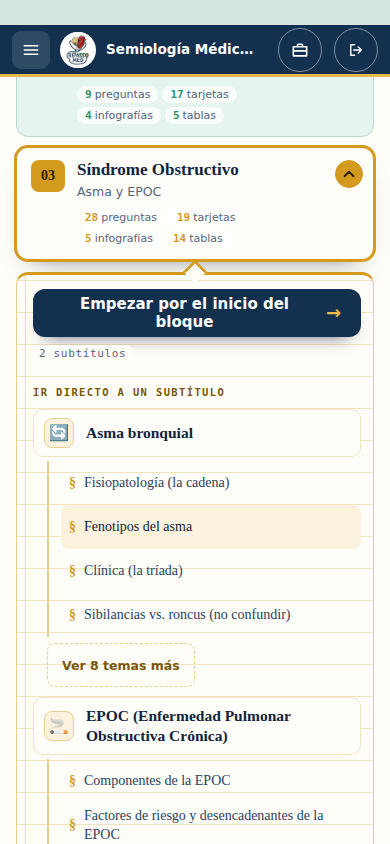
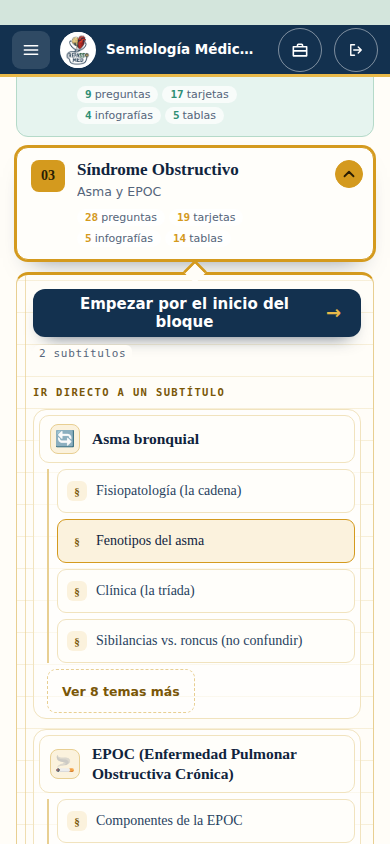
fix(semiologia-ii): H4 como minicards na ficha do H3, aria-controls válido, cabeçalhos do módulo (#462)
- painel: cada H4 vira minicard discreto (≥ 44 px, recuado) dentro da ficha do seu H3;
  mantém só os 4 primeiros + «Ver N temas más»; pautas do papel mais sutis (@supports color-mix)
- aria-controls do card só existe enquanto o painel está no DOM (nunca aponta para id ausente)
- comentários de rm-materia-indice.js/css: módulo já ligado ao piloto (não é mais «protótipo isolado»)
- QA: seção 10 (H4 minicards + aria-controls) → 167/167; qa-piloto 51/51; suítes do piloto verdes
- docs: comparação das 2 falhas «post-it» da caneta com a main (idênticas; não desta PR),
  README com passo de teste visual; capturas atualizadas

Sem alteração de IDs, conteúdo, âncoras, flags ou motor da caneta. Sem merge.

Claude-Session: https://claude.ai/code/session_01PtAML93YoLN7vnLM4Dj4QM

Changed region(s): [[0.0615, 0.4929, 0.9538, 1.0], [0.0615, 0.5545, 0.0923, 0.6777], [0.8923, 0.4621, 0.9231, 0.4929]]

diff --git a/Repasso-Med-Site--main/Atual - Copia/assets/rm-materia-indice.css b/Repasso-Med-Site--main/Atual - Copia/assets/rm-materia-indice.css
@@ -1,5 +1,5 @@
 /* =====================================================================
-   REPASSO MED · rm-materia-indice.css — índice CENTRAL expansível (issue #460) · PROTÓTIPO ISOLADO (nada o carrega ainda)
+   REPASSO MED · rm-materia-indice.css — índice CENTRAL expansível (issue #460) · carregado pelo rm-pilot.js só com layout+visual do servidor (PR #462)
    Só vale com o tema do piloto ligado (html.rm-sis). Usa os tokens e as variáveis de capítulo do rm-materia-sistema.css (--cap*, --rm-*).
    Linguagem: caderno médico premium — o card acionado «abre» uma página do caderno ligada a ele por aba/cor/borda; minicards leves
    (não repetem o peso dos cards de bloco); expansão curta (220 ms), sem giro/bounce/parallax; prefers-reduced-motion = instantâneo.
@@ -48,6 +48,9 @@ html.rm-sis .rm-ix-box {
   background-size: 100% 32px; background-position: 0 6px;
   box-shadow: 0 16px 28px -22px rgba(16, 36, 61, .55);
 }
+@supports (color: color-mix(in srgb, red 50%, blue)) {
+  html.rm-sis .rm-ix-box { background-image: linear-gradient(to bottom, transparent 31px, color-mix(in srgb, var(--cap-line) 55%, transparent) 31px); }   /* pautas ainda mais sutis onde color-mix existe */
+}
 html.rm-sis .rm-ix-box::before { content: ""; position: absolute; top: 0; bottom: 0; left: clamp(8px, 1.6vw, 15px); width: 1px; background: var(--cap-edge); opacity: .7; pointer-events: none; }
 
 html.rm-sis .rm-ix-head { display: flex; align-items: center; flex-wrap: wrap; gap: 8px 14px; margin: 0 0 16px; }
@@ -80,33 +83,39 @@ html.rm-sis .rm-ix-mk {
 html.rm-sis .rm-ix-mk.is-ico { font-size: 16px; line-height: 1; }
 html.rm-sis .rm-ix-tt { min-width: 0; overflow-wrap: anywhere; }
 
-/* H4 (nível 2): linhas discretas sob o H3 a que pertencem */
-html.rm-sis .rm-ix-kids { list-style: none; margin: 0 0 0 20px; padding: 0 0 0 12px; border-left: 2px solid var(--cap-edge); display: flex; flex-direction: column; gap: 0; }
+/* H3 com H4: o grupo vira uma «ficha» discreta (fundo levíssimo + borda fina); o H3 é o minicard de cima e cada H4 é um minicard menor, recuado, dentro dela */
+html.rm-sis .rm-ix-grp.has-kids { gap: 6px; padding: 6px; border: 1px solid var(--cap-line); border-radius: 13px; background: rgba(255, 255, 255, .55); }
+html.rm-sis .rm-ix-kids { list-style: none; margin: 0 0 0 14px; padding: 0 0 0 10px; border-left: 2px solid var(--cap-edge); display: flex; flex-direction: column; gap: 6px; }
 html.rm-sis .rm-ix-kids > li { margin: 0; padding: 0; }
 html.rm-sis .rm-ix-kids > li[hidden] { display: none; }
 html.rm-sis button.rm-ix-kid {
-  appearance: none; -webkit-appearance: none; margin: 0; width: 100%; box-sizing: border-box; display: flex; align-items: center; gap: 8px; min-height: 44px; padding: 4px 8px; text-align: left; cursor: pointer;
-  background: transparent; border: 0; border-radius: 8px; font: 500 14px/1.3 var(--rm-f-body); color: var(--rm-tx3);
+  appearance: none; -webkit-appearance: none; margin: 0; width: 100%; box-sizing: border-box; display: flex; align-items: center; gap: 9px; min-height: 44px; padding: 6px 12px 6px 9px; text-align: left; cursor: pointer;
+  background: var(--rm-white); border: 1px solid var(--cap-line); border-radius: 9px; font: 500 14px/1.3 var(--rm-f-body); color: var(--rm-tx3); transition: border-color .15s, background .15s, color .15s;
 }
-html.rm-sis button.rm-ix-kid::before { content: "§"; flex: 0 0 auto; color: var(--cap); font-weight: 800; }
-html.rm-sis button.rm-ix-kid:hover { background: var(--cap-tint); color: var(--rm-title); }
+html.rm-sis button.rm-ix-kid::before {
+  content: "§"; flex: 0 0 20px; width: 20px; height: 20px; display: grid; place-items: center; border-radius: 6px; background: var(--cap-tint); color: var(--cap-strong, var(--rm-navy));
+  font: 700 11px var(--rm-f-title);
+}
+html.rm-sis button.rm-ix-kid:hover { border-color: var(--cap); background: var(--cap-tint); color: var(--rm-title); }
+html.rm-sis button.rm-ix-kid:active { transform: translateY(1px); }
 html.rm-sis .rm-ix-kt { min-width: 0; overflow-wrap: anywhere; }
 html.rm-sis button.rm-ix-more {
-  appearance: none; -webkit-appearance: none; margin: 2px 0 0 20px; align-self: flex-start; min-height: 44px; padding: 0 14px; cursor: pointer; background: transparent;
-  border: 1px dashed var(--cap-edge); border-radius: 8px; font: 650 12.5px var(--rm-f-ui); color: var(--cap-strong, var(--rm-navy));
+  appearance: none; -webkit-appearance: none; margin: 0 0 0 14px; align-self: flex-start; min-height: 44px; padding: 0 14px; cursor: pointer; background: transparent;
+  border: 1px dashed var(--cap-edge); border-radius: 9px; font: 650 12.5px var(--rm-f-ui); color: var(--cap-strong, var(--rm-navy));
 }
 html.rm-sis button.rm-ix-more:hover { background: var(--cap-tint); }
 
 @media (max-width: 480px) {
   html.rm-sis .rm-ix-box { padding: 14px 12px 16px 16px; border-radius: 12px; }
   html.rm-sis .rm-ix-start { width: 100%; justify-content: center; }
-  html.rm-sis .rm-ix-kids { margin-left: 14px; }
-  html.rm-sis button.rm-ix-more { margin-left: 14px; }
+  html.rm-sis .rm-ix-kids { margin-left: 8px; padding-left: 8px; }
+  html.rm-sis button.rm-ix-more { margin-left: 8px; }
+  html.rm-sis .rm-ix-grp.has-kids { padding: 5px; }
 }
 
 /* movimento reduzido: abertura/fechamento instantâneos, sem deslocamento */
 @media (prefers-reduced-motion: reduce) {
-  html.rm-sis .rm-ix-panel, html.rm-sis .rm-ix-chev, html.rm-sis button.rm-ix-card, html.rm-sis .rm-ix-start, html.rm-sis button.rm-ix-sub { transition: none !important; }
-  html.rm-sis .rm-ix-start:hover, html.rm-sis button.rm-ix-sub:active { transform: none; }
+  html.rm-sis .rm-ix-panel, html.rm-sis .rm-ix-chev, html.rm-sis button.rm-ix-card, html.rm-sis .rm-ix-start, html.rm-sis button.rm-ix-sub, html.rm-sis button.rm-ix-kid { transition: none !important; }
+  html.rm-sis .rm-ix-start:hover, html.rm-sis button.rm-ix-sub:active, html.rm-sis button.rm-ix-kid:active { transform: none; }
 }
 html.rm-sis .rm-ix-panel.is-sem-anim { transition: none !important; }

diff --git a/Repasso-Med-Site--main/Atual - Copia/assets/rm-materia-indice.js b/Repasso-Med-Site--main/Atual - Copia/assets/rm-materia-indice.js
@@ -1,7 +1,8 @@
 /* =====================================================================
    REPASSO MED · rm-materia-indice.js — índice CENTRAL expansível por bloco e subtítulo (issue #460)
-   PROTÓTIPO ISOLADO: nenhum arquivo do site carrega este módulo. A integração (um css()+js() e um attach depois de RMNav.attach em rm-pilot.js)
-   está em docs/indice-expansivel-460/PATCH-INTEGRACAO-rm-pilot.diff e só entra depois da PR da caneta (#456).
+   LIGADO AO PILOTO (PR #462): rm-pilot.js carrega este módulo depois da navegação por bloco (rm-materia-nav.js) e chama attach() só quando o servidor
+   liberou layout + visual para Semiología II (mesmo portão do tema). Qualquer falha (módulo ausente, attach que lança) ⇒ detach() e os cards voltam a ser
+   os <a> de antes, que abrem o bloco direto. Sem esse attach, o arquivo não faz nada: window.RMIndice só define funções. Rollback: docs/indice-expansivel-460/README.md.
 
    O que faz (só no índice de abertura da matéria, atrás do mesmo portão do piloto: exige RMSistema + RMNav ativos):
      · o card central de um BLOCO deixa de abrir o bloco na hora: ele EXPANDE ali mesmo, num painel ligado ao card (aba/cor/borda);
@@ -15,7 +16,7 @@
        cabeçalhos de pergunta/flashcard, cabeçalhos repetidos (SUB_FORA, a mesma regra do app-core), e tudo que está dentro de contêineres
        (post-it, cartões, detalhes, quiz, tabelas…). H4 entra como filho do H3 anterior (hierarquia).
      · Só usa APIs públicas já existentes: RMSistema.secciones(), RMNav.ativo()/go()/irParaAlvo(). Não toca RMModes/RMLayout/áudio/caneta.
-     · Acessibilidade: o card vira <button> real com aria-expanded/aria-controls; Enter/Espaço; Esc fecha e devolve o foco; alvos ≥ 44 px;
+     · Acessibilidade: o card vira <button> real com aria-expanded e, enquanto o painel existe no DOM, aria-controls (nunca aponta para um id ausente); Enter/Espaço; Esc fecha e devolve o foco; alvos ≥ 44 px;
        prefers-reduced-motion = abertura/fechamento instantâneos.
      · Reversível: detach() devolve os <a> originais e remove tudo o que criou.
    ===================================================================== */
@@ -106,7 +107,7 @@
     var lab = el('p', 'rm-ix-lab'); lab.textContent = T.ir; dentro.appendChild(lab);
     var ol = el('ol', 'rm-ix-list');
     c.subs.forEach(function (g, i) {
-      var li = el('li', 'rm-ix-grp');
+      var li = el('li', g.kids.length ? 'rm-ix-grp has-kids' : 'rm-ix-grp');
       var b = el('button', 'rm-ix-sub', { type: 'button' });
       var mk = el('span', 'rm-ix-mk', { 'aria-hidden': 'true' }); mk.textContent = g.icon || g.num || String(i + 1); if (g.icon) mk.className += ' is-ico'; b.appendChild(mk);
       var tt = el('span', 'rm-ix-tt'); tt.textContent = g.txt; b.appendChild(tt);
@@ -189,6 +190,7 @@
     N.aberto = c;
     c.btn.setAttribute('aria-expanded', 'true'); c.btn.setAttribute('data-rm-open', '');
     colocar(c);
+    c.btn.setAttribute('aria-controls', c.painelId);                 // o painel já está no DOM
     var P = c.painel, reduz = movimentoReduzido();
     if (reduz) { P.classList.add('is-open'); P.classList.add('is-sem-anim'); }
     else { void P.offsetHeight; requestAnimationFrame(function () { if (N && N.aberto === c) P.classList.add('is-open'); }); }
@@ -203,7 +205,7 @@
     var reduz = movimentoReduzido();
     if (o.ancora) ancorar(o.ancora, reduz ? 40 : DUR + 60);
     P.classList.remove('is-open');
-    var tirar = function () { if (P.parentNode && !(N && N.aberto === c)) { var g = P.parentNode; g.removeChild(P); soltarGrade(g); } };
+    var tirar = function () { if (P.parentNode && !(N && N.aberto === c)) { c.btn.removeAttribute('aria-controls'); var g = P.parentNode; g.removeChild(P); soltarGrade(g); } };
     if (reduz) tirar(); else setTimeout(tirar, DUR + 40);
     if (o.foco) { try { c.btn.focus({ preventScroll: true }); } catch (e) { c.btn.focus(); } }
   }
@@ -248,7 +250,7 @@
       var subs = subtitulosDe(s.el); if (!subs.length) return;                             // bloco sem subtítulos reais: card segue abrindo direto
       var btn = ui('button', 'rm-sis-card rm-ix-card', { type: 'button', 'aria-expanded': 'false', 'data-rm-go': s.id });
       var cap = orig.getAttribute('data-rm-cap') || ''; if (cap) btn.setAttribute('data-rm-cap', cap);
-      var painelId = 'rm-ix-p-' + (++SEQ); btn.setAttribute('aria-controls', painelId);
+      var painelId = 'rm-ix-p-' + (++SEQ);                    // aria-controls só existe enquanto o painel está no DOM (abrir/fechar)
       while (orig.firstChild) btn.appendChild(orig.firstChild);
       var ch = el('span', 'rm-ix-chev', { 'aria-hidden': 'true' }); ch.appendChild(svgCaret()); btn.appendChild(ch);
       var b = btn.querySelector('.rm-sis-card-t b'), n = btn.querySelector('.rm-sis-card-n');

diff --git a/docs/indice-expansivel-460/README.md b/docs/indice-expansivel-460/README.md
@@ -9,7 +9,7 @@
 - Dentro do painel:
   - o comando separado e destacado **«Empezar por el inicio del bloque»** (abre o bloco no começo; texto em castelhano porque é voltado ao aluno — a issue o chama «Começar pelo início do bloco»);
   - **minicards com os subtítulos reais** do bloco, na ordem do conteúdo (marcador numerado ou o ícone clínico que o próprio título já tem; cor da unidade; alvo ≥ 44 px);
-  - os subtítulos de nível 4 aparecem como linhas discretas sob o seu título (até 4; «Ver N temas más» para o resto).
+  - quando um subtítulo (H3) tem subtópicos (H4), o grupo vira uma «ficha» discreta: o H3 é o minicard de cima e **cada H4 é um minicard menor, recuado, dentro da ficha** (marcador «§», alvo ≥ 44 px, texto menor/mais leve que o do H3). Só os **4 primeiros** H4 de cada grupo aparecem; o resto fica atrás de «Ver N temas más» (e «Ver menos»), para a capa não ficar enorme.
 - Clicar num subtítulo abre **só aquele bloco** e posiciona a leitura no título (reuso de `RMNav.irParaAlvo`).
 - **Um painel por vez.** Esc fecha e devolve o foco ao card. Os outros cards descem com transição de ~220 ms (altura/opacidade, sem giro/salto); `prefers-reduced-motion` = instantâneo. O card clicado não sai da tela; sem salto de rolagem.
 - **Guía de estudio, tablas, banco e flashcards** (4 cards) seguem como links diretos: nenhum subtítulo inventado.
@@ -33,22 +33,31 @@
 
 A reserva #460 foi registrada na #67 (comentário 6045457401). Os arquivos da caneta (#456) eram os mesmos que a integração precisa; por isso o trabalho começou **isolado** (arquivos novos + diff). A #461 (caneta) foi **mesclada na `main`** durante esta tarefa e liberou a reserva (comentário do Claude 2 na #67; ela tocou `rm-materia-sistema.js/css`, `rm-audio.css` e **não** `rm-pilot.js`). A `main` foi incorporada a esta branch, o diff foi aplicado a `rm-pilot.js` e **toda a bateria foi reexecutada** contra a `main` com a caneta nova.
 
-## Evidências
+## Evidências (HEAD desta entrega — ver o fim da PR para o hash)
 
 | Bateria | Resultado |
 |---|---|
-| `tools/qa/indice-expansivel-460/qa.cjs` (derivação, mouse, teclado, toque, 320/390/768/1024/1440, zoom 200%, movimento reduzido, lista longa, conteúdo intacto, lateral/modos/links diretos/Back-Forward, caneta sintética) | **142/142** |
+| `tools/qa/indice-expansivel-460/qa.cjs` (derivação, mouse, teclado, toque, 320/390/768/1024/1440, zoom 200%, movimento reduzido, lista longa, conteúdo intacto, lateral/modos/links diretos/Back-Forward, caneta sintética, **10 · H4 como minicards + `aria-controls`**) | **167/167** |
 | `…/qa-piloto.cjs` (pilot **real**: flags on/off, outra matéria, 500/404/attach que lança, rollback, player de áudio tocando em 390 e 1440, caneta V2 com tinta semeada) | **51/51** |
-| Suítes existentes do piloto (`browser-qa/layout`): `layout` 535/535 · `player-sistema` 275/275 · `player-toolbox` 495/495 · `race` 140/140 · `ink-jump` 54/54 · `cover` 198/198 · `sistema` 124/124 · `pilot-flags` 10/10 · `nav-sistema` 216/216 (após adaptar o clique do card) | verdes |
-| `caneta-novo-layout.test.cjs` | **89/91**: 2 falhas «layout · postit · rápido/longo» — **idênticas com o `rm-pilot.js` original da `main`** (testado com o pilot revertido): não vêm desta PR; o relato é do Claude 2 (#456) |
+| Suítes existentes do piloto (`browser-qa/layout`) rerodadas: `layout` 535 · `player-sistema` 275/275 · `player-toolbox` 495/495 · `race` 140/140 · `ink-jump` 54/54 · `cover` 198/198 · `sistema` 124/124 · `pilot-flags` 10/10 · `nav-sistema` 216 | **todas verdes** |
+| `caneta-novo-layout.test.cjs` | **89/91 — igual na `main`** (mesmas 2 falhas «layout · postit», desvio 1,68 px > 1,6 px, 0 pontos perdidos). Comparação lado a lado em [`caneta-postit-comparacao.md`](caneta-postit-comparacao.md). **Não atribuída a esta PR; motor da caneta não alterado.** |
+| Repasso Guard (local e CI) | ver o comentário/execução na PR |
 
-Capturas (antes/depois): `capturas/antes-*` e `capturas/depois-*` (1440 e 390 recolhido/expandido, outra fileira, meio da animação, movimento reduzido, subtítulo escolhido, 320/768/1024, toque, zoom 200%, lista longa).
+Capturas: `capturas/antes-*` e `capturas/depois-*` (1440 e 390 recolhido/expandido, outra fileira, **H4 minicards em 1440 e 390**, meio da animação, movimento reduzido, subtítulo escolhido, 320/768/1024, toque, zoom 200%, lista longa). `qa-resultados.json` e `qa-piloto-resultados.json` têm cada verificação.
+
+## Passo de teste visual para José (≈ 3 min, no piloto Semiología II com o visual novo)
+
+1. Abra a capa («Índice general»). Toque no card **03 · Síndrome Obstructivo**: ele deve **abrir ali mesmo** (não entrar no bloco).
+2. Veja a «ficha» de **Asma bronquial** e de **EPOC**: cada tema com subtópicos mostra o título em cima e **4 minicards menores** abaixo; «Ver 8 temas más» revela o resto. Os minicards parecem discretos e legíveis? As pautas do papel incomodam?
+3. Toque num subtópico (p.ex. «Clínica (la tríada)»): deve abrir **só o bloco 03** já no título. Volte pelo índice: o card segue expandido.
+4. Toque em outro card: o anterior fecha, só um fica aberto. Repita no celular (390 px) e, se puder, com «reduzir movimento» ligado.
+5. Diga o que muda: tamanho do texto, número de H4 visíveis (hoje 4), cor, ordem, rótulos.
 
 ## Riscos e limitações (leia antes de aprovar)
 
-1. **Decisão visual é de José.** Pontos a olhar: o painel em 2 colunas intercalando linhas de subtítulos de nível 4; o rótulo «Ver N temas más»; a quantidade de texto em blocos com 7 temas.
+1. **Decisão visual é de José** (ver «Passo de teste visual» abaixo). Pontos a olhar: a ficha H3+H4 em 2 colunas; o rótulo «Ver N temas más»; a intensidade das pautas do papel (sutis; só onde `color-mix` existe); a quantidade de texto em blocos com 7 temas.
 2. **Idioma do comando**: em castelhano («Empezar por el inicio del bloque»), por ser texto de aluno; a issue o escreveu em português.
-3. **Caneta**: testada com **traço sintético** (pointer events no Chromium) e tinta semeada; **não** valida o atraso/perda de traço reais nem o teste físico. A expansão não grava nada (0 escritas).
+3. **Caneta**: as 2 falhas «post-it» do teste da #456 são da `main` (comparação em `caneta-postit-comparacao.md`). Aqui, testada com **traço sintético** (pointer events no Chromium) e tinta semeada; **não** valida o atraso/perda de traço reais nem o teste físico. A expansão não grava nada (0 escritas).
 4. **Só Chromium/Playwright**; sem iOS/Safari real, sem toque físico (toque emulado), zoom 200% emulado por viewport/2.
 5. **Achado em `app-core.js`** (fora de escopo, não alterado): `tipoSub` classifica como quiz qualquer título com `/examen/` — «Examen físico…» (b02, b06, b08, b10) fica de fora da lista de subtítulos de `RMLayout`. O módulo usa regra própria (operacional = título que *começa* por pregunta/cuestionario/banco/flashcard/mazo/tarjetas/ruleta), então esses H3 aparecem no painel.
 6. Mexe em `rm-pilot.js` e na tag `?v=` do `index.html` (áreas críticas): 3 pontos pequenos, fail-closed, no caminho já atrás de `visual === true`. Cache de 7 dias é invalidado pela tag.

diff --git a/docs/indice-expansivel-460/caneta-postit-comparacao.md b/docs/indice-expansivel-460/caneta-postit-comparacao.md
@@ -1,0 +1,26 @@
+# Falhas «post-it» de `caneta-novo-layout.test.cjs` — comparação com a `main` (não são desta PR)
+
+`tools/qa/browser-qa/layout/caneta-novo-layout.test.cjs` (da #456/#461) termina em **89/91** tanto **com** quanto **sem** esta PR. O motor da caneta, `rm-materia-sistema.*`, `rm-audio.*` e o teste em si **não foram alterados nesta branch**.
+
+## Como foi comparado
+`bash tools/qa/indice-expansivel-460/comparar-caneta.sh [pasta]` roda o mesmo teste duas vezes, em sequência, trocando **só** o `rm-pilot.js` (restaurado por `trap`; conferido com `diff` contra o HEAD depois):
+
+| Execução | `rm-pilot.js` | Resultado |
+|---|---|---|
+| A · esta branch (HEAD `a5f0931b` + este lote) | com o índice expansível ligado | **89/91** |
+| B · `main` `dfb576ae` | original da `main` (sem `RMIndice`) | **89/91** |
+
+As **mesmas 2 verificações** falham nas duas, com os mesmos números:
+
+```
+✗ layout · postit · rapido: 1 traço novo (40→41), 0/360 pontos perdidos (máx 1.68 px), gravado pelo motor (0→1)
+✗ layout · postit · longo : 1 traço novo (40→41), 0/200 pontos perdidos (máx 1.68 px), gravado pelo motor (0→1)
+```
+
+`diff` entre as duas execuções: só muda a linha de tempo do tick do player (3,6 ms × 4,1 ms; ruído de CPU).
+
+## Leitura da falha (sem atribuir causa à caneta além do que o teste mostra)
+- A condição que reprova é só a **tolerância** `maxDist ≤ 1.6 px`: o desvio medido é **1,68 px**. Os demais critérios da mesma linha passam: 1 traço novo, **0 pontos perdidos**, gravado pelo motor (0→1).
+- Ocorre na configuração **`layout`** (Layout V2 **sem** o tema), onde `RMSistema`/`RMNav`/`RMIndice` nem são carregados — portanto não depende desta PR. As configurações `antigo` e `novo` (tema + navegação + índice) passam nos mesmos alvos (`post-it` incluído).
+- Fica como pendência da #456/caneta (o relato original é do Claude 2); **não** foi tocada aqui, conforme a auditoria.
+- Limite: o teste usa o pipeline pointer do Chromium (CDP), **não** é teste físico com caneta.
